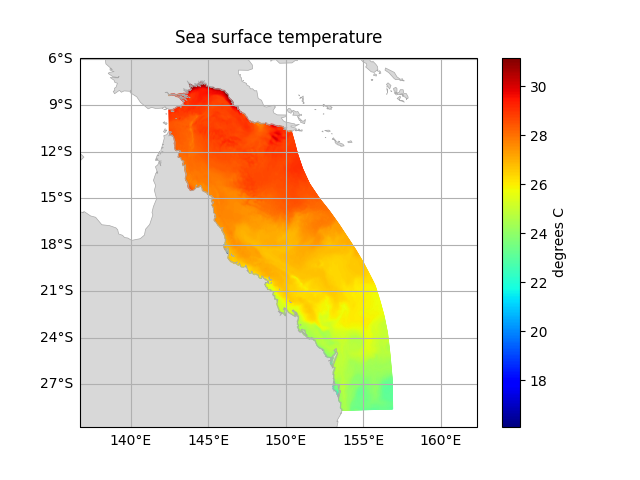
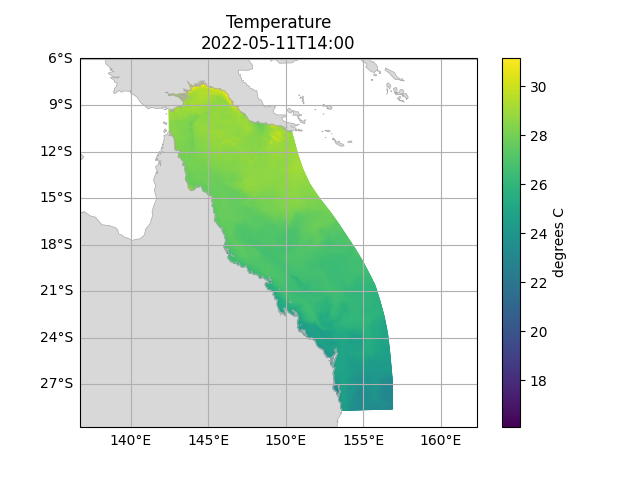
Remove default cmap of "jet"
This will fall back to matplotlibs configured default, which is usually
'viridis' but can be customised by users. "jet" is a poor choice for
many reasons.

Changed region(s): [[0.25, 0.1562, 0.625, 0.875], [0.7812, 0.125, 0.8125, 0.9062], [0.2812, 0.0312, 0.5938, 0.125]]

diff --git a/src/emsarray/transect.py b/src/emsarray/transect.py
@@ -8,7 +8,7 @@ import numpy
 import shapely
 import xarray
 from cartopy import crs
-from matplotlib import animation, colormaps, pyplot
+from matplotlib import animation, pyplot
 from matplotlib.artist import Artist
 from matplotlib.axes import Axes
 from matplotlib.collections import PolyCollection
@@ -558,7 +558,7 @@ class Transect:
         trim_nans: bool = True,
         clamp_to_surface: bool = True,
         bathymetry: xarray.DataArray | None = None,
-        cmap: str | Colormap = 'jet',
+        cmap: str | Colormap | None = None,
         clim: tuple[float, float] | None = None,
         ocean_floor_colour: str = 'black',
         landmarks: list[Landmark] | None = None,
@@ -620,7 +620,7 @@ class Transect:
         trim_nans: bool = True,
         clamp_to_surface: bool = True,
         bathymetry: xarray.DataArray | None = None,
-        cmap: str | Colormap = 'jet',
+        cmap: str | Colormap | None = None,
         clim: tuple[float, float] | None = None,
         ocean_floor_colour: str = 'black',
         landmarks: list[Landmark] | None = None,
@@ -717,7 +717,7 @@ class Transect:
         trim_nans: bool = True,
         clamp_to_surface: bool = True,
         bathymetry: xarray.DataArray | None = None,
-        cmap: str | Colormap = 'jet',
+        cmap: str | Colormap | None = None,
         clim: tuple[float, float] | None = None,
         ocean_floor_colour: str = 'black',
         landmarks: list[Landmark] | None = None,
@@ -774,8 +774,7 @@ class Transect:
         if title is not None:
             axes.set_title(title)
 
-        if isinstance(cmap, str):
-            cmap = colormaps[cmap].copy()
+        cmap = pyplot.get_cmap(cmap).copy()
         cmap.set_bad(ocean_floor_colour)
 
         # Find a min/max from the data if clim isn't provided and the data array is not empty.

diff --git a/src/emsarray/plot.py b/src/emsarray/plot.py
@@ -130,7 +130,7 @@ def add_landmarks(
         # Plot the temperature
         temperature = dataset.ems.make_poly_collection(
             dataset['temp'].isel(time=0, k=-1),
-            cmap='jet', edgecolor='face', zorder=0)
+            cmap='viridis', edgecolor='face', zorder=0)
         axes.add_collection(temperature)
         figure.colorbar(temperature, label='°C')
 
@@ -321,7 +321,7 @@ def plot_on_figure(
     if scalar is not None:
         # Plot a scalar variable on the polygons using a colour map
         collection = convention.make_poly_collection(
-            scalar, cmap='jet', edgecolor='face')
+            scalar, edgecolor='face')
         axes.add_collection(collection)
         units = scalar.attrs.get('units')
         figure.colorbar(collection, ax=axes, location='right', label=units)
@@ -437,7 +437,7 @@ def animate_on_figure(
         # Plot a scalar variable on the polygons using a colour map
         scalar_values = convention.ravel(scalar).values[:, convention.mask]
         collection = convention.make_poly_collection(
-            cmap='jet', edgecolor='face',
+            edgecolor='face',
             clim=(numpy.nanmin(scalar_values), numpy.nanmax(scalar_values)))
         axes.add_collection(collection)
         collection.set_animated(True)
